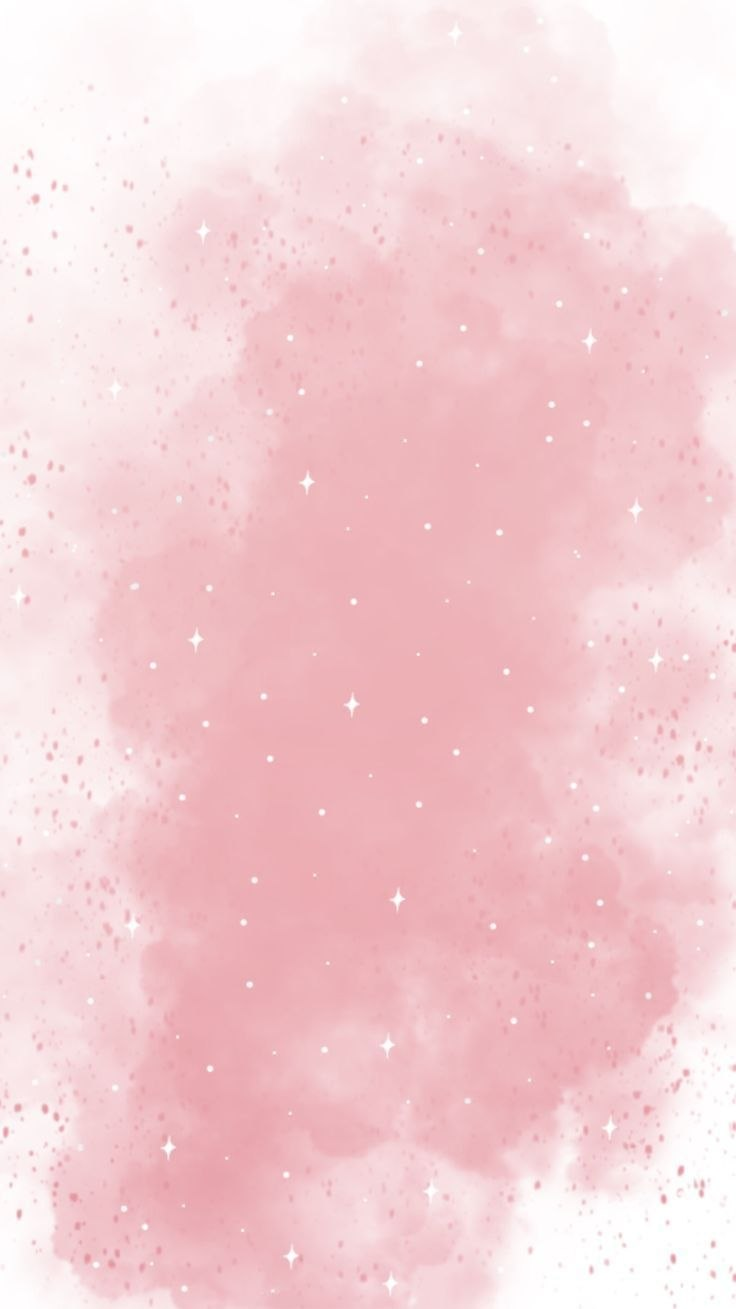
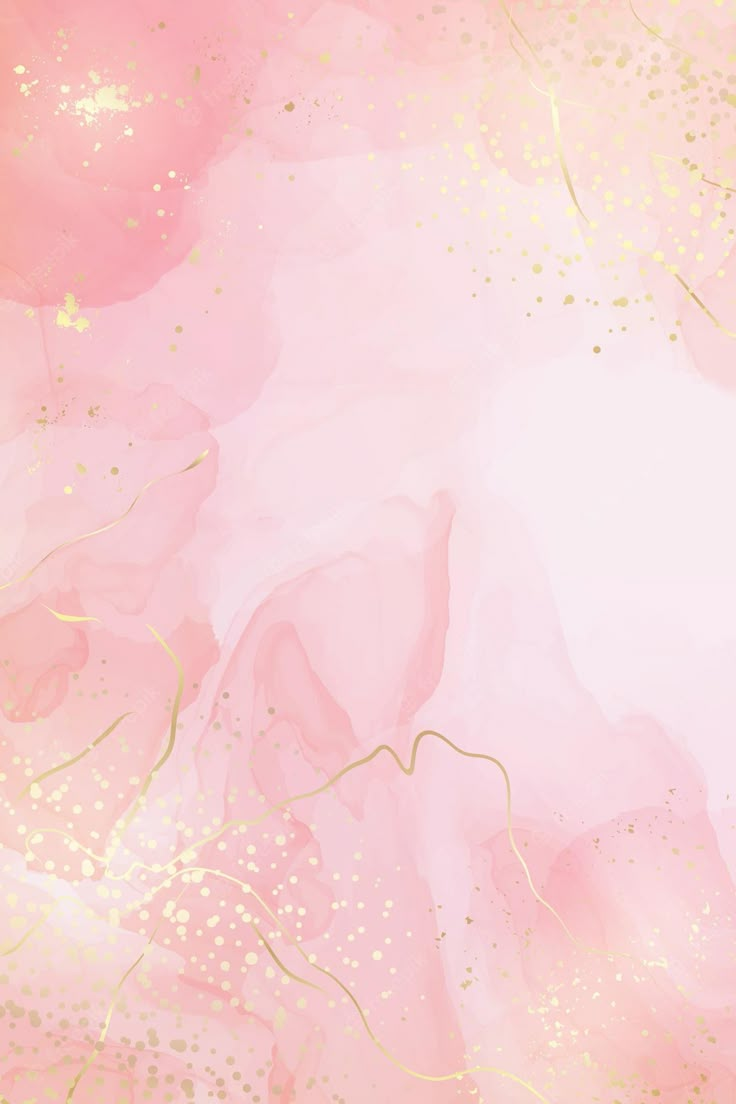
texto reañadido

diff --git a/src/components/ui/SplashScreen.tsx b/src/components/ui/SplashScreen.tsx
@@ -20,11 +20,33 @@ export default function SplashScreen() {
     <div class="splash-wrap" aria-modal="true" role="dialog">
       {/* Panel izquierdo */}
       <div class={`panel panel-left ${opening ? "panel-left--open" : ""}`}>
+        <div class="panel-inner">
+          <div class="panel-border" />
+          <div class="panel-content">
+            <div class="panel-ornament">✦</div>
+            <p class="panel-script">Paola</p>
+            <div class="panel-line" />
+            <p class="panel-date">Viernes · 22 · Mayo · 2026</p>
+          </div>
+          <div class="panel-border" />
+        </div>
+        {/* Borde central con bisagra */}
         <div class="panel-edge" />
       </div>
 
       {/* Panel derecho */}
       <div class={`panel panel-right ${opening ? "panel-right--open" : ""}`}>
+        <div class="panel-inner panel-inner--right">
+          <div class="panel-border" />
+          <div class="panel-content">
+            <div class="panel-ornament">✦</div>
+            <p class="panel-label">te invita a celebrar</p>
+            <p class="panel-label">sus</p>
+            <p class="panel-xv">XV Años</p>
+          </div>
+          <div class="panel-border" />
+        </div>
+        {/* Borde central */}
         <div class="panel-edge panel-edge--right" />
       </div>
 
@@ -66,7 +88,7 @@ export default function SplashScreen() {
           top: 0;
           bottom: 0;
           width: 200%;
-          background-image: url('/fondocarta.webp');
+          background-image: url('/fondocarta2.jpg');
           background-size: cover;
           background-position: center;
           background-repeat: no-repeat;
